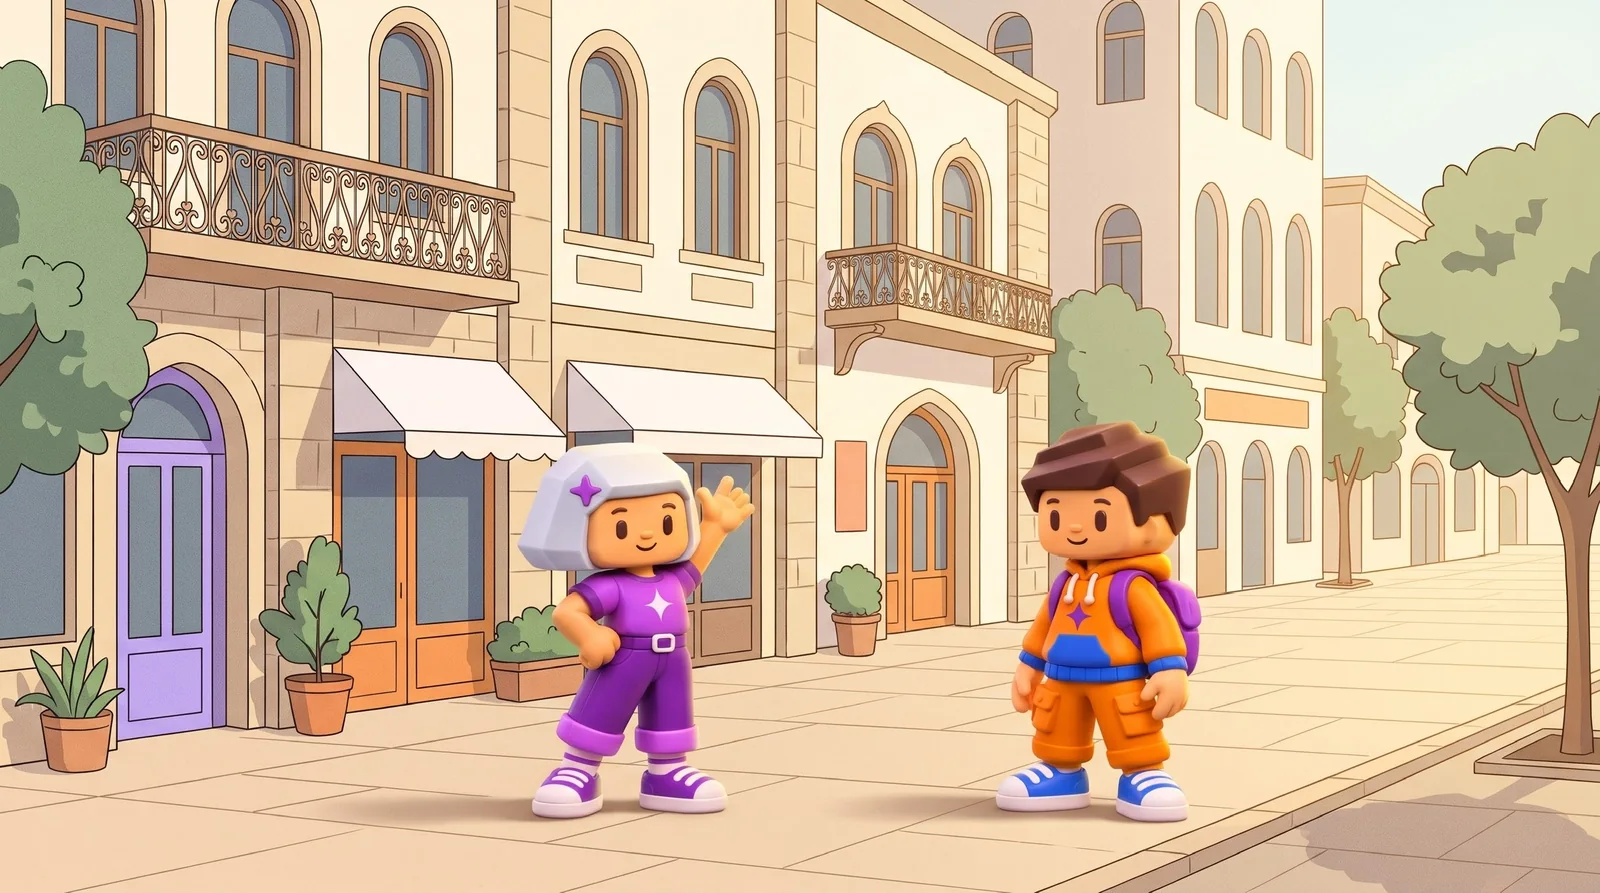
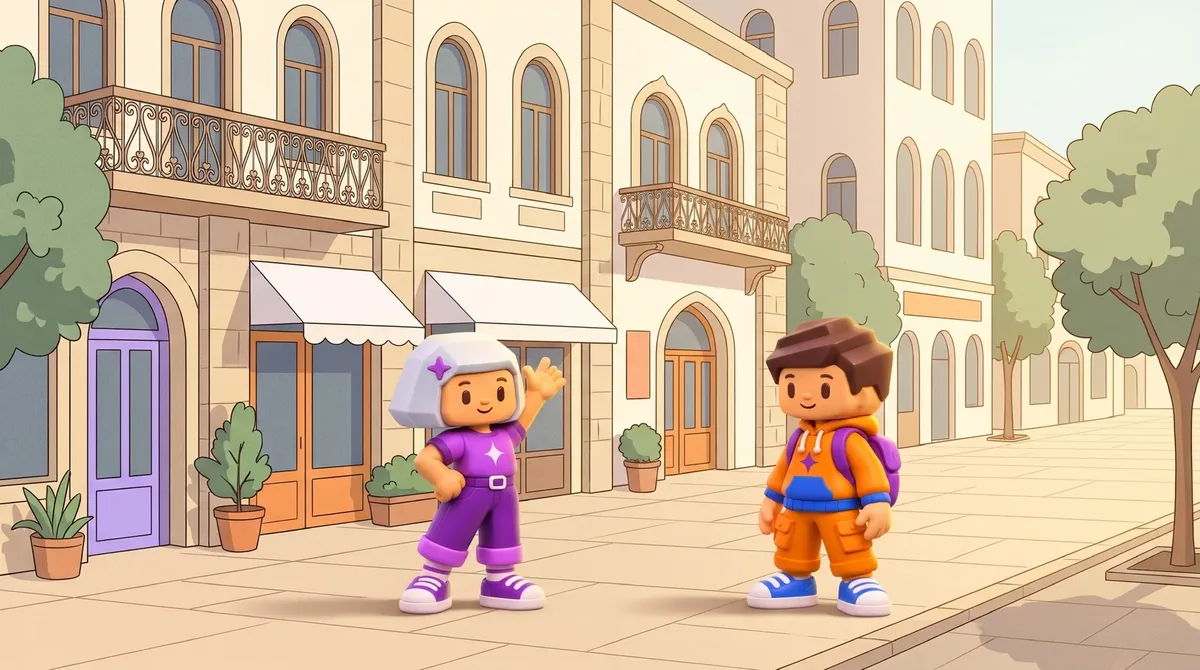
check-wrong-answers: hər tapşırıq səhv cavablanır, uyğun cavab öz cavabıdır; kart keçidində titrəmə yox; şəkillər yüngül
Claude-Session: https://claude.ai/code/session_015orjzF43Vxo38AVHtCtnkH

Changed region(s): [[0.0925, 0.1493, 0.2467, 0.2687], [0.2158, 0.209, 0.3083, 0.2985], [0.0308, 0.7164, 0.0617, 0.7463]]

diff --git a/src/components/design/DesignLesson.tsx b/src/components/design/DesignLesson.tsx
@@ -1,10 +1,9 @@
 import { Image } from 'expo-image';
 import * as Haptics from 'expo-haptics';
-import Animated, { Keyframe } from 'react-native-reanimated';
+import Animated, { Keyframe, useAnimatedStyle, useSharedValue, withTiming } from 'react-native-reanimated';
 
 // New step (25 Nov 2026): a short fade + 8px slide-up. Reanimated skips layout animations under Reduce Motion.
 const DimIn = new Keyframe({ 0: { opacity: 0 }, 100: { opacity: 1 } }).duration(220);
-const StepIn = new Keyframe({ 0: { opacity: 0, transform: [{ translateY: 8 }] }, 100: { opacity: 1, transform: [{ translateY: 0 }] } }).duration(280);
 import { Stack, useFocusEffect, useRouter } from 'expo-router';
 import * as Speech from 'expo-speech';
 import { setAudioModeAsync } from 'expo-audio';
@@ -167,11 +166,24 @@ export default function DesignLesson({ source }: { source: Lesson }) {
     setFit(f => Math.max(MIN_FIT, Math.min(f, (viewport.h - CONTENT_PAD) / (contentHeight - CONTENT_PAD))));
   }, [contentHeight, viewport.h, keyboardOpen, art, fitState, dense]); // eslint-disable-line react-hooks/exhaustive-deps
   // A picture that was shrunk grows back when the screen has room again (27 Nov 2026: picture stayed small, space below).
+  // Only while the card is being fitted (hidden) or after the screen itself grew, so it never jumps on screen.
   useEffect(() => {
     if (keyboardOpen || !viewport.h || !contentHeight || art >= 1 || fitState < 1) return;
     if (viewport.h - shownHeight(1) > 48) setArt(a => Math.min(1, Math.round((a + .15) * 100) / 100));
   }, [contentHeight, viewport.h, keyboardOpen, art, fitState]); // eslint-disable-line react-hooks/exhaustive-deps
   const fit = keyboardOpen ? 1 : fitState;
+  // No jump between cards (27 Nov 2026, user: the screen shook on every step): a new card stays invisible while it
+  // is measured and shrunk to fit, then fades in once, already at its final size.
+  const shown = useSharedValue(0);
+  const [settled, setSettled] = useState(false);
+  useEffect(() => { setSettled(false); shown.value = 0; const id = setTimeout(() => setSettled(true), 400); return () => clearTimeout(id); }, [cardKey]); // eslint-disable-line react-hooks/exhaustive-deps
+  useEffect(() => {
+    if (settled || !viewport.h || !contentHeight) return;
+    const fits = keyboardOpen || shownHeight(fitState) <= viewport.h + 1 || (fitState <= MIN_FIT && art <= ART_MIN);
+    if (fits) { const id = setTimeout(() => setSettled(true), 30); return () => clearTimeout(id); }
+  }, [settled, contentHeight, viewport.h, keyboardOpen, art, fitState, dense]); // eslint-disable-line react-hooks/exhaustive-deps
+  useEffect(() => { if (settled) shown.value = withTiming(1, { duration: 160 }); }, [settled]); // eslint-disable-line react-hooks/exhaustive-deps
+  const fadeStyle = useAnimatedStyle(() => ({ opacity: shown.value }));
   const stillOverflows = keyboardOpen || (viewport.h > 0 && shownHeight(fit) > viewport.h + 1 && fit <= MIN_FIT && art <= ART_MIN);
   // The scaled card keeps the full width: it is laid out wider by 1/fit and centred, so it does not look narrow.
   const growable = (current?.type === 'word' || current?.type === 'teach') && !keyboardOpen && fitState === 1 && !dense && !showResult;
@@ -714,8 +726,8 @@ export default function DesignLesson({ source }: { source: Lesson }) {
       <View style={[{ flexGrow: 1, transform: [{ scale }], transformOrigin: 'top center' },
         scale !== 1 && innerW > 0 && { width: wideW, marginLeft: (innerW - wideW) / 2 }]}>
       <ArtFit.Provider value={keyboardOpen ? 1 : art}><LessonCaption.Provider value={lessonLabel(lesson)}>
-      {/* A short slide-in marks each new card; Reanimated skips it when the system asks for reduced motion. */}
-      <Animated.View key={cardKey} entering={StepIn} style={{ flexGrow: 1 }}>
+      {/* Each new card fades in once it has its final size (no visible shrinking steps). */}
+      <Animated.View key={cardKey} style={[{ flexGrow: 1 }, fadeStyle]}>
         {current?.type === 'word' || current?.type === 'teach' ? <View onLayout={e => onNatural(e.nativeEvent.layout.height)}>{body}</View> : body}
       </Animated.View>
       </LessonCaption.Provider></ArtFit.Provider>

diff --git a/src/utils/designLesson.ts b/src/utils/designLesson.ts
@@ -117,6 +117,15 @@ export function gradeChoice(task: Pick<Extract<DesignTask, { type: 'choice' }>, 
 }
 
 /** Written and spoken answers. `voice` relaxes known speech-recognition spellings only. */
+/** Safety net (27 Nov 2026): the “Uyğun cavab” must be a sentence THIS task accepts. A shared typical-mistake
+ *  explanation that names another example (“Are you from Georgia?” in a Turkey task) shows the task's own answer. */
+function ownAnswer(explain: Graded['explain'], rule: { answers: string[] }, accepts: (x: string) => boolean): Graded['explain'] {
+  if (!explain?.answers || !rule.answers.length) return explain;
+  const pieces = explain.answers.split(/\s+\/\s+|\s+·\s+|\s+və ya\s+|\n/).map(x => x.trim()).filter(Boolean);
+  if (pieces.some(p => /\[|\{/.test(p) || accepts(p))) return explain;
+  return { ...explain, answers: rule.answers[0] };
+}
+
 export function gradeText(task: Extract<DesignTask, { type: 'write' | 'voice' }>, value: string, voice = false): Graded {
   if (!value.trim()) return { status: 'empty' };
   const verdict = assessPacketAnswer(value, task.rule, voice);
@@ -127,7 +136,8 @@ export function gradeText(task: Extract<DesignTask, { type: 'write' | 'voice' }>
   if (verdict.status === 'unknown' && !(variant && !('other' in variant.match))) return { status: 'unknown' };
   const slip = (!variant || 'other' in variant.match) ? commonSlip(value) : undefined;
   const used = slip ?? variant;
-  return withOwnFix({ status: 'wrong', short: used?.short ?? used?.explain.reason, explain: slip ? slipExplain(slip, variant, value) : explainOf(variant, value) }, value, task.rule);
+  const explain = ownAnswer(slip ? slipExplain(slip, variant, value) : explainOf(variant, value), task.rule, p => assessPacketAnswer(p, task.rule, false).status === 'correct');
+  return withOwnFix({ status: 'wrong', short: used?.short ?? used?.explain.reason, explain }, value, task.rule);
 }
 
 /** Tiles in the order the learner tapped them, as one sentence (“My name is Leyla .” → “My name is Leyla.”). */
@@ -202,8 +212,9 @@ export function gradeTwo(task: TwoTask, values: Record<string, string>, keep: Re
     const variant = pickVariant(task.variants.filter(v => !('swapped' in v.match)), values[field.id], false, field.id);
     const short = variant?.short && !(field.id === second.id && fields[first.id].status !== 'correct') ? variant.short : variant?.explain.reason.replace('{purpose}', field.purpose);
     const slip = (!variant || 'other' in variant.match) ? commonSlip(values[field.id]) : undefined;
-    fields[field.id] = withOwnFix(slip ? { status: 'wrong', short: slip.short, explain: slipExplain(slip, variant, values[field.id], field.purpose) }
-      : { status: 'wrong', short, explain: explainOf(variant, values[field.id], field.purpose) }, values[field.id], field.rule);
+    const accepts = (p: string) => assessPacketAnswer(p, field.rule, false).status === 'correct';
+    fields[field.id] = withOwnFix(slip ? { status: 'wrong', short: slip.short, explain: ownAnswer(slipExplain(slip, variant, values[field.id], field.purpose), field.rule, accepts) }
+      : { status: 'wrong', short, explain: ownAnswer(explainOf(variant, values[field.id], field.purpose), field.rule, accepts) }, values[field.id], field.rule);
   }
   const statuses = task.fields.map(f => fields[f.id].status);
   const wrong = task.fields.find(f => fields[f.id].status === 'wrong');

diff --git a/docs/BIRTALK.md b/docs/BIRTALK.md
@@ -181,6 +181,7 @@ node scripts/export-unit1-docs.cjs  # Bölmə 1 dəyişəndə docs/dersler/
 | 27 Noy | Öyrən kartları Yeni söz görünüşünə keçdi, köhnə maskotlu banner koddan silindi; “I am → I'm” kartında “[ad]” təkrarı və itən apostrof izahı düzəldi (Qısa forma sətri). |
 | 27 Noy | Avatarlar 3D portretlərdir (`assets/characters/girl|boy.webp`; `friend.webp` {F} üçün hazırdır, `Who`-da hələ F yoxdur); köhnə çəkilmiş simvol silindi. Şəkil kiçiləndə 16:9 qalır (yalnız eni azalır, kəsilmir) və yer boşalanda geri böyüyür. |
 | 27 Noy | Ümumi səhvlər (What’s is …, It’s that right) səhvi adlandırır, amma “Uyğun cavab” həmişə **tapşırığın öz cavabıdır** (əvvəl ad sualında “What's your phone number?” çıxırdı); `check-design-lesson` yoxlayır. |
+| 27 Noy | **`check-wrong-answers`** (check-all-da): bütün dərslərin hər tapşırığı qəsdən səhv cavablanır (hər səhv variant, söz atılır/yeri dəyişir/artıq söz, tipik səhvlər); “Uyğun cavab” həmin tapşırığın qəbul etdiyi cümlə olmalıdır, səhv heç vaxt düz sayılmır. Kodda da qoruyucu var: başqa nümunəli ortaq izah tapşırığın öz cavabını göstərir (u3d4_c11 “Georgia” düzəldi). Kart keçidi: yeni kart ölçülüb oturana qədər görünmür, sonra bir dəfə yumşaq görünür (titrəmə yox); səhnə şəkilləri 1200 px. |
 
 > **Dəyişməz qayda (26 Noy 2026):** dərs, hissə və ya tapşırıq dəyişəndə (o cümlədən dərsi hissələrə bölmək) `node scripts/check-all.cjs` tam yaşıl olmadan commit edilmir. `check-taught` (öyrədilməmiş söz) və `check-parts` (sonrakı hissədə köhnə “bu dərsin əvvəli” ipucu; öyrədilən söz/hərf öz hissəsinin düzgün cavabında məşq olunmalıdır) heç vaxt zəiflədilmir — səhv tapılırsa məzmun düzəlir, yoxlama yox. GitHub-da hər push `.github/workflows/check.yml` ilə avtomatik yoxlanır; commit qırmızıdırsa, əvvəl onu düzəlt.
 
